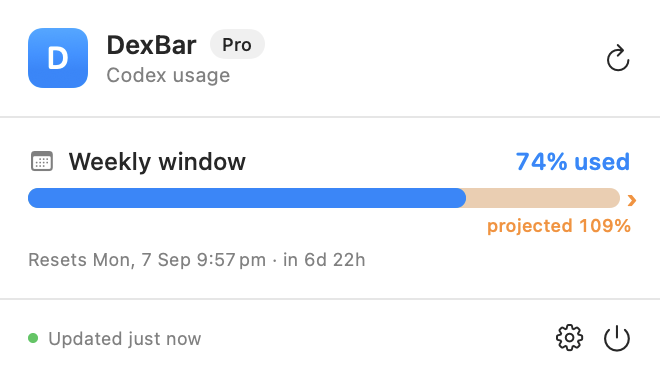
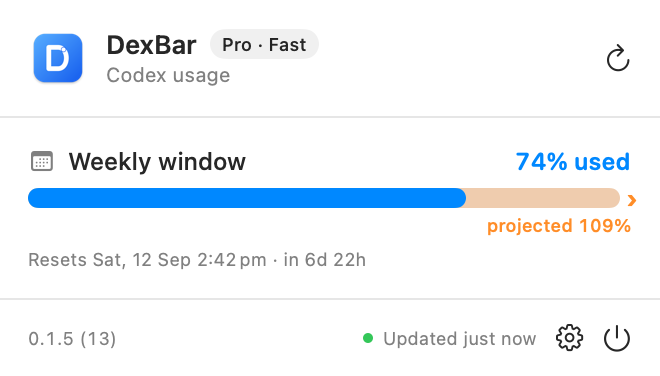
Refresh README and screenshots

diff --git a/README.md b/README.md
@@ -1,53 +1,127 @@
-# DexBar
+<p align="center">
+  <img src="Docs/DexBar-icon.png" width="112" alt="DexBar app icon">
+</p>
 
-![Platform](https://img.shields.io/badge/platform-macOS%2014.0%2B-brightgreen)
-![Apple Silicon](https://img.shields.io/badge/Apple_Silicon-M1%2B-black?logo=apple&logoColor=white)
-![Notarised](https://img.shields.io/badge/Notarised-Developer%20ID-success)
-[![Latest release](https://img.shields.io/github/v/release/vmlrodrigues/DexBar?label=latest)](https://github.com/vmlrodrigues/DexBar/releases/latest)
+<h1 align="center">DexBar</h1>
 
-[![Download for Mac](https://img.shields.io/badge/Download_for_Mac-007AFF?style=for-the-badge&logo=apple&logoColor=white)](https://github.com/vmlrodrigues/DexBar/releases/latest/download/DexBar.dmg)
+<p align="center">
+  A small, native macOS menu-bar app for the Codex usage limits on your ChatGPT account.
+</p>
 
-DexBar is a small, native macOS menu-bar app that shows the OpenAI Codex usage available to the ChatGPT account already signed in through Codex.
+<p align="center">
+  <img alt="macOS 14 or later" src="https://img.shields.io/badge/platform-macOS%2014.0%2B-brightgreen">
+  <img alt="Apple silicon" src="https://img.shields.io/badge/Apple_Silicon-M1%2B-black?logo=apple&amp;logoColor=white">
+  <img alt="Developer ID notarised" src="https://img.shields.io/badge/Notarised-Developer%20ID-success">
+  <a href="https://github.com/vmlrodrigues/DexBar/releases/latest"><img alt="Latest release" src="https://img.shields.io/github/v/release/vmlrodrigues/DexBar?label=latest"></a>
+</p>
 
-It is built with SwiftUI and AppKit, has no web view, and does not appear in the Dock. The normal menu-bar display is deliberately quiet: it shows the weekly allowance, while a shorter window such as a five-hour cap appears only after Codex reports that window as active or reached.
+<p align="center">
+  <a href="https://github.com/vmlrodrigues/DexBar/releases/latest/download/DexBar.dmg"><img alt="Download DexBar for Mac" src="https://img.shields.io/badge/Download_for_Mac-007AFF?style=for-the-badge&amp;logo=apple&amp;logoColor=white"></a>
+</p>
 
-![DexBar showing the minimal weekly view](Docs/DexBar-current.png)
+DexBar uses the ChatGPT account already signed in through the Codex CLI. It is built with
+SwiftUI and AppKit, contains no web view, and stays out of the Dock. The normal display is
+deliberately quiet: weekly usage remains primary, while shorter or model-specific limits
+surface only when Codex reports that they matter.
+
+<p align="center">
+  <a href="Docs/DexBar-current.png"><img src="Docs/DexBar-current.png" width="600" alt="DexBar showing the minimal weekly usage view"></a>
+</p>
+
+<p align="center"><sub>The minimal weekly view, using sample data.</sub></p>
+
+> [!NOTE]
+> DexBar is an independent, unofficial tool. It is not made or endorsed by OpenAI. It uses
+> a local Codex app-server interface that may change or stop working in a future Codex release.
 
 ## What it shows
 
-- Weekly usage, percentage used, time until reset, and the exact reset date.
-- An adaptive weekly projection after one day of history, plus a quiet short-window projection after one hour when it is heading to at least 60%.
-- The ChatGPT plan and Codex default service mode when the local app server reports them.
-- Active shorter windows and urgent model-specific limits only when they matter.
-- An optional global shortcut to show or hide the popover from any app, configurable in Menu Bar Settings.
-- Optional notifications at 80%, 95%, and when the weekly projection crosses 100%.
-- Connection, stale-data, and sign-in states without replacing the last known value unnecessarily.
-- The exact app version and build number in the popover footer.
+- Weekly usage, percentage used, time remaining, and the exact reset date.
+- Active shorter windows, such as a five-hour model limit, only after they have actually
+  been used or reached.
+- Model-specific long windows once they reach warning territory, without filling the popover
+  with inactive or low-usage meters.
+- A local weekly projection after 24 hours of history for the same reset window. When enough
+  recent movement exists, DexBar blends the full-window pace with a recency-weighted trend.
+- A deliberately quiet short-window projection after one hour, shown only when it points to
+  at least 60% usage by reset.
+- The ChatGPT plan and default Codex service mode—Standard, Fast, or Ultra Fast—when the local
+  app server reports them.
+- Usage-credit status when Codex reports credits, a non-zero balance, or unlimited access.
+- Connection, stale-data, missing-CLI, and sign-in states while retaining the last successful
+  reading whenever possible.
+- The exact application version and build number in the popover footer.
+
+The menu bar normally represents the weekly window. If an active supplementary window becomes
+more urgent, DexBar automatically surfaces that window instead. Its text can be configured as
+percentage and time, time and percentage, percentage only, or time only.
+
+## When another limit matters
+
+An active short window appears beneath the weekly allowance, with its model or bucket name for
+context. Inactive short windows remain invisible.
+
+<p align="center">
+  <a href="Docs/DexBar-active-window.png"><img src="Docs/DexBar-active-window.png" width="560" alt="DexBar showing an active five-hour model window"></a>
+</p>
+
+<p align="center"><sub>An active five-hour window, using sample data.</sub></p>
+
+Projection is shown on the same meter. The marker indicates the central estimate; its tooltip
+explains the measured pace, uncertainty range, and estimated limit time when applicable. Orange
+and red appear only when the uncertainty range says the allowance may or is likely to run out.
+
+<p align="center">
+  <a href="Docs/DexBar-projection-warning.png"><img src="Docs/DexBar-projection-warning.png" width="600" alt="DexBar warning that projected weekly usage exceeds the limit"></a>
+</p>
+
+<p align="center"><sub>A weekly projection crossing the limit, using sample data.</sub></p>
+
+## Other features
+
+- Adaptive refresh: every minute during recent Codex activity or at 80% usage and above,
+  every three minutes after brief inactivity, and every five minutes while idle.
+- Immediate refresh when the popover opens and after the Mac wakes.
+- Optional notifications at 80%, 95%, and when the weekly projection crosses the limit.
+- An optional global shortcut to show or hide the popover from any app.
+- Launch at login, manual refresh, projection-history clearing, and a manual update check.
+- Daily Sparkle update checks that always ask before installing.
+
+The global shortcut uses Carbon hotkey registration. It receives only the chosen combination,
+ships disabled and unbound, and does not require Accessibility permission.
 
 ## Privacy
 
-DexBar starts the installed Codex CLI's local app server and asks it for account rate limits and the effective default service mode. It reuses the Codex sign-in but does not read or copy Codex credentials into its own files. It stores only usage percentages, timestamps, and reset dates for projection. Service mode is display-only and is not written to projection history. DexBar never sends a prompt to check usage.
+DexBar starts the installed Codex CLI's local app server and asks it for account rate limits
+and the effective default service mode. It reuses the existing Codex sign-in but does not read
+or copy authentication tokens into its own files or logs. Checking usage does not send a prompt,
+consume allowance, or start a usage window.
 
-The optional global shortcut uses macOS's Carbon hotkey registration. It receives only the chosen combination and does not require Accessibility permission. The shortcut ships disabled and unbound so DexBar does not claim a system-wide key combination without being asked.
+For projection, DexBar stores only window identifiers, usage percentages, timestamps, and reset
+dates in `~/Library/Application Support/DexBar/projection-history.json`. The history is retained
+for eight days and can be cleared from **Settings → Data & Privacy**. It contains no prompts,
+source code, account identifiers, or service-mode history.
+
+DexBar watches filesystem-change notifications beneath `~/.codex/sessions` solely to choose a
+fresher polling interval after Codex activity. It does not open or read the session contents.
 
 ## Requirements
 
 - macOS 14 or later.
-- Apple silicon.
+- An Apple-silicon Mac.
 - Codex CLI installed and signed in with ChatGPT.
 
 ## Install
 
-1. [Download DexBar.dmg](https://github.com/vmlrodrigues/DexBar/releases/latest/download/DexBar.dmg).
+1. [Download the latest notarised DMG](https://github.com/vmlrodrigues/DexBar/releases/latest/download/DexBar.dmg).
 2. Open the disk image and drag DexBar to Applications.
 3. Launch DexBar. It will use the ChatGPT account already signed in through the Codex CLI.
 
-DexBar checks for updates once per day and prompts before installing them. You can also
-check immediately from **Settings → General → Software updates**. Update downloads are
-verified with a DexBar-specific EdDSA signature and Apple's code signature before they are
-installed.
+DexBar checks for updates once every 24 hours and prompts before installing them. You can check
+immediately from **Settings → General → Software updates**. Sparkle verifies downloads with a
+DexBar-specific EdDSA signature in addition to Apple's code-signing and notarization checks.
 
-## Build
+## Build from source
 
 ```sh
 swift test
@@ -57,7 +131,13 @@ swift test
 The app bundle is written to `dist/DexBar.app`. A normal invocation creates an ad-hoc-signed
 development build: its menu-bar symbol is a hammer, automatic updates and login-item changes
 are disabled, and the About pane identifies it as Development. The build script refuses to
-replace that bundle while it is running.
+replace that exact development bundle while it is running.
+
+Regenerate every standard and Retina icon representation, plus `Resources/AppIcon.icns`, with:
+
+```sh
+swift Scripts/make-icon.swift
+```
 
 A release build is deliberately explicit and requires clean, committed source:
 
@@ -66,18 +146,16 @@ BUILD_CHANNEL=release SIGN=1 ./Scripts/build.sh
 ```
 
 The release build finds a Developer ID Application identity and applies a hardened-runtime,
-timestamped signature. Its exact Git revision is embedded in the application for release
-provenance; unknown build-channel metadata always fails closed as development behavior.
+timestamped signature. It also embeds the exact Git revision and Git-derived build number;
+missing or unknown build-channel metadata always fails closed as development behavior.
 
-## Releasing
-
-DexBar follows the same guarded release path as ClawBar:
+## Release process
 
 ```sh
-BUILD_CHANNEL=release SIGN=1 ./Scripts/build.sh  # clean Developer ID release build
-./Scripts/notarize.sh    # notarise and staple the app and DMG
-./Scripts/release.sh     # verify, sign the update, and stage release assets/appcast
-PUBLISH=1 ./Scripts/release.sh  # publish the GitHub release and update appcast.xml
+BUILD_CHANNEL=release SIGN=1 ./Scripts/build.sh
+./Scripts/notarize.sh
+./Scripts/release.sh
+PUBLISH=1 ./Scripts/release.sh
 ```
 
 Store validated notarization credentials in the macOS Keychain once:
@@ -86,33 +164,32 @@ Store validated notarization credentials in the macOS Keychain once:
 xcrun notarytool store-credentials PersonalProjectsNotary --sync
 ```
 
-The release scripts use that shared profile by default; set `NOTARY_KEYCHAIN_PROFILE` only
-when deliberately using another validated profile. No App Store Connect private key or
-issuer metadata is copied into the repository. The release guard refuses dirty source,
-development-channel builds, a source-revision mismatch, mismatched Git-derived build
-numbers, unpushed commits, unsigned artifacts, and unstapled artifacts. Published releases
-include a versioned DMG, a stable latest-download DMG, and a SHA-256 checksum.
+The scripts use that Keychain profile by default; set `NOTARY_KEYCHAIN_PROFILE` only when
+deliberately using another validated profile. No App Store Connect private key or issuer
+metadata is copied into the repository.
 
-The release is published before the script commits and pushes `appcast.xml`, so Sparkle
-never sees an enclosure URL that still returns 404. Publication succeeds only after the
-appcast commit is verified on the remote branch. The feed points Sparkle at the versioned,
-notarised GitHub release asset.
-
-Publication is resumable. If GitHub accepted the release but the local appcast commit or push
-failed, rerunning the publish command verifies the existing tag and every downloaded asset
-against the exact candidate before completing the feed publication.
+The release guard rejects dirty or unpushed source, development-channel builds, source-revision
+or build-number mismatches, unsigned artifacts, and unstapled artifacts. It publishes a
+versioned DMG, a stable latest-download DMG, and a SHA-256 checksum. The GitHub release is made
+available before the signed `appcast.xml` entry is committed and pushed, so Sparkle never sees
+an enclosure URL that still returns 404. Publication is resumable and verifies existing remote
+assets byte-for-byte before continuing after a partial failure.
 
 ## Project layout
 
-- `Sources/DexBarCore` contains the Codex app-server client, response mapping, formatting, and projection logic.
-- `Sources/DexBar` contains the AppKit lifecycle and menu-bar plumbing plus SwiftUI views.
-- `Tests/DexBarCoreTests` covers window visibility, health thresholds, build-channel policy, adaptive and short-window projection, service-mode mapping, and formatting.
-- `Scripts/build.sh` assembles the standalone `.app` bundle.
-
-DexBar is an independent, unofficial tool. It is not made or endorsed by OpenAI.
+- `Sources/DexBarCore` — Codex app-server client, response mapping, formatting, notification
+  policy, and projection logic.
+- `Sources/DexBar` — AppKit lifecycle and menu-bar plumbing, SwiftUI views, preferences,
+  notifications, polling, and Sparkle integration.
+- `Tests/DexBarCoreTests` — window visibility, thresholds, build policy, projection,
+  service-mode mapping, client lifecycle, notifications, and formatting tests.
+- `Scripts` — deterministic icon generation, application assembly, signing, notarization,
+  appcast generation, and guarded GitHub publication.
+- `Docs` — README screenshots generated by DexBar's headless native renderer, plus the app-icon
+  preview.
 
 ## Licence
 
-MIT — see [LICENSE](LICENSE). Sparkle's complete licence and bundled third-party notices
-are retained in [Resources/ThirdPartyLicenses/Sparkle-LICENSE.txt](Resources/ThirdPartyLicenses/Sparkle-LICENSE.txt)
+MIT — see [LICENSE](LICENSE). Sparkle's complete licence and bundled third-party notices are
+retained in [Resources/ThirdPartyLicenses/Sparkle-LICENSE.txt](Resources/ThirdPartyLicenses/Sparkle-LICENSE.txt)
 and included in the application bundle.
